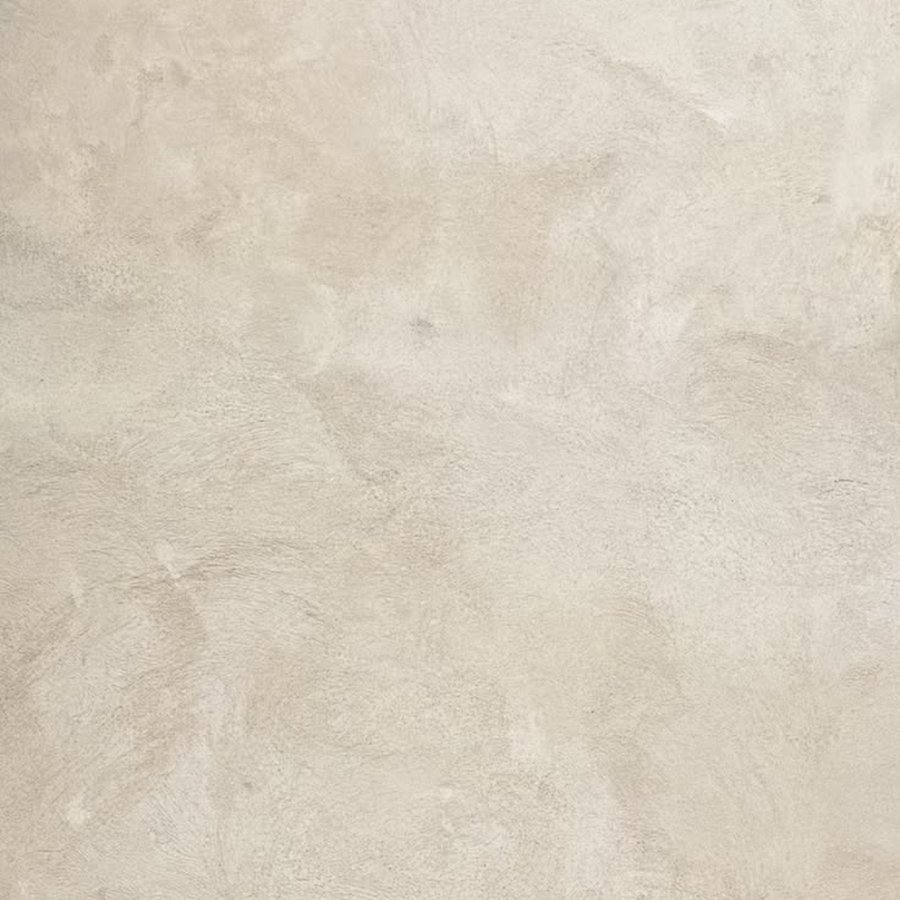
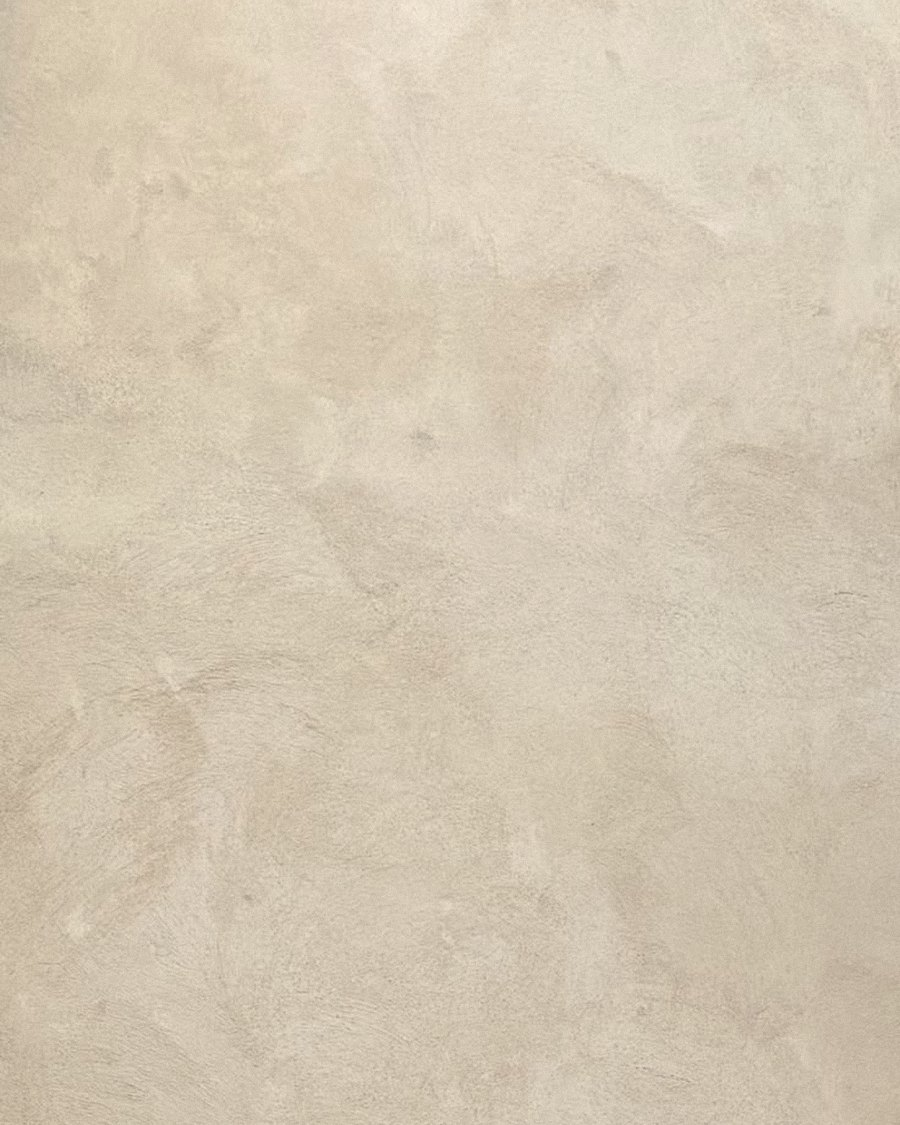
Catálogo de materiales y mejoras del generador
- Texturas nuevas a partir de fotos reales (Pexels), recortadas en 4:5
  y con un mismo revelado para que el conjunto tenga unidad; bloque de
  vidrio ya tiene imagen y el opus incertum se compone con fotos de piedra
- La pestaña Materiales de la Biblioteca se presenta como una hoja de
  catálogo: rejilla de muestras con nombre y código (CAT. 341-001...)
  en tipografía monoespaciada
- Generador: filtros por subcategoría en la biblioteca del editor y
  botón para descargar el moodboard como PNG (2000 px de ancho)

Claude-Session: https://claude.ai/code/session_01Xops2A717m5QMFGxGir6Zh

diff --git a/generador.js b/generador.js
@@ -16,6 +16,7 @@ let tablero = null;       // el moodboard en el que se está trabajando
 let seleccion = null;     // id del recuadro o texto seleccionado
 let enMano = null;        // pieza de la biblioteca elegida con un toque (móvil)
 let pestañaBiblioteca = "material";
+let filtroBiblioteca = "";     // subcategoría elegida en la biblioteca del editor
 
 
 // ---------------------------------------------------------------------
@@ -143,6 +144,7 @@ function vistaGenerador() {
           <button data-accion="azar">Rellenar al azar</button>
           <button data-accion="vaciar">Vaciar</button>
           <button data-accion="guardar">Guardar como plantilla</button>
+          <button data-accion="descargar" class="boton-oscuro">Descargar PNG</button>
         </div>
         <div class="barra barra-seleccion" id="barra-seleccion"></div>
         <div id="zona-lienzo"></div>
@@ -155,6 +157,7 @@ function vistaGenerador() {
           <button data-tipo="color">Añadir color</button>
           <button data-tipo="mueble">Añadir mobiliario</button>
         </nav>
+        <nav class="filtros filtros-editor" id="filtros-editor"></nav>
         <div class="piezas" id="piezas"></div>
       </aside>
     </section>`;
@@ -185,7 +188,15 @@ function pintarPlantillas() {
 
 function pintarBibliotecaEditor() {
   document.querySelectorAll(".pestañas-biblioteca button").forEach(b => b.classList.toggle("activa", b.dataset.tipo === pestañaBiblioteca));
-  const piezas = piezasBiblioteca(pestañaBiblioteca);
+  const todas = piezasBiblioteca(pestañaBiblioteca);
+  // Subcategorías, en el mismo orden que en la Biblioteca
+  const orden = { material: CATEGORIAS.materiales, mueble: CATEGORIAS.mobiliario, color: FAMILIAS_COLOR }[pestañaBiblioteca];
+  const presentes = orden.filter(cat => todas.some(p => p.categoria === cat));
+  if (!presentes.includes(filtroBiblioteca)) filtroBiblioteca = "";
+  document.getElementById("filtros-editor").innerHTML = presentes.length > 1 ? `
+    <button data-filtro="" class="${filtroBiblioteca ? "" : "activa"}">Todos</button>
+    ${presentes.map(cat => `<button data-filtro="${cat}" class="${cat === filtroBiblioteca ? "activa" : ""}">${cat}</button>`).join("")}` : "";
+  const piezas = filtroBiblioteca ? todas.filter(p => p.categoria === filtroBiblioteca) : todas;
   document.getElementById("piezas").innerHTML = piezas.length ? piezas.map(p => `
     <button class="pieza-editor ${enMano?.tipo === p.tipo && enMano?.id === p.id ? "en-mano" : ""}"
             draggable="true" data-tipo="${p.tipo}" data-id="${texto(p.id)}" title="${texto(p.nombre)}">
@@ -340,6 +351,13 @@ function activarEditor() {
     const b = e.target.closest("button");
     if (!b) return;
     pestañaBiblioteca = b.dataset.tipo;
+    filtroBiblioteca = "";
+    pintarBibliotecaEditor();
+  });
+  document.getElementById("filtros-editor").addEventListener("click", e => {
+    const b = e.target.closest("button");
+    if (!b) return;
+    filtroBiblioteca = b.dataset.filtro;
     pintarBibliotecaEditor();
   });
   const piezas = document.getElementById("piezas");
@@ -389,6 +407,7 @@ function activarEditor() {
     if (accion === "texto") return añadirTexto();
     if (accion === "azar") return rellenarAlAzar();
     if (accion === "guardar") return guardarComoPlantilla();
+    if (accion === "descargar") return descargarPNG();
     if (accion === "vaciar") {
       if (confirm("¿Quitar todas las texturas, colores y muebles del moodboard?")) { tablero.recuadros.forEach(x => x.contenido = null); pintarLienzo(); }
       return;
@@ -488,4 +507,118 @@ function teclaEditor(e) {
     pintarLienzo();
   }
   if (e.key === "Escape") { enMano = null; seleccion = null; pintarBibliotecaEditor(); pintarLienzo(); }
+}
+
+
+// ---------------------------------------------------------------------
+//  DESCARGAR EL MOODBOARD COMO IMAGEN (PNG)
+//  Se vuelve a dibujar el tablero en un <canvas> a alta resolución.
+// ---------------------------------------------------------------------
+
+const PIEDRA = [[8, 14], [30, 2], [62, 6], [88, 0], [100, 30], [94, 62], [100, 88], [70, 100], [38, 95], [12, 100], [0, 74], [4, 42]];
+
+function cargarImagen(src) {
+  return new Promise((ok, mal) => {
+    const img = new Image();
+    img.onload = () => ok(img);
+    img.onerror = mal;
+    img.src = src;
+  });
+}
+
+function trazarForma(ctx, forma, x, y, w, h) {
+  ctx.beginPath();
+  if (forma === "circulo") ctx.ellipse(x + w / 2, y + h / 2, w / 2, h / 2, 0, 0, Math.PI * 2);
+  else if (forma === "piedra") PIEDRA.forEach(([px, py], i) => ctx[i ? "lineTo" : "moveTo"](x + px / 100 * w, y + py / 100 * h));
+  else ctx.rect(x, y, w, h);
+  ctx.closePath();
+}
+
+// Dibuja la imagen cubriendo el hueco (como background-size: cover) o entera (contain)
+function dibujarImagen(ctx, img, x, y, w, h, modo) {
+  const escala = (modo === "contain" ? Math.min : Math.max)(w / img.width, h / img.height);
+  const iw = img.width * escala, ih = img.height * escala;
+  ctx.drawImage(img, x + (w - iw) / 2, y + (h - ih) / 2, iw, ih);
+}
+
+async function descargarPNG() {
+  const boton = document.querySelector('[data-accion="descargar"]');
+  boton.textContent = "Preparando…";
+  try {
+    const ANCHO = 2000;
+    const [pa, pb] = tablero.proporcion;
+    const W = ANCHO, H = Math.round(ANCHO * pb / pa);
+    const canvas = document.createElement("canvas");
+    canvas.width = W; canvas.height = H;
+    const ctx = canvas.getContext("2d");
+    ctx.fillStyle = "#ECE9E3";
+    ctx.fillRect(0, 0, W, H);
+
+    const recuadros = tablero.recuadros.filter(r => r.contenido).sort((a, b) => (a.z ?? 0) - (b.z ?? 0));
+    const imagenes = {};
+    await Promise.all(recuadros.map(async r => {
+      const pieza = buscarPieza(r.contenido);
+      if (pieza?.imagen) imagenes[r.id] = await cargarImagen(pieza.imagen);
+    }));
+
+    for (const r of recuadros) {
+      const pieza = buscarPieza(r.contenido);
+      if (!pieza) continue;
+      const x = r.x / 100 * W, y = r.y / 100 * H, w = r.w / 100 * W, h = altoRecuadro(r, tablero.proporcion) / 100 * H;
+      ctx.save();
+      if (pieza.tipo === "mueble") {
+        // los muebles van sin sombra y su fondo blanco se funde con el lienzo
+        ctx.globalCompositeOperation = "multiply";
+        trazarForma(ctx, r.forma, x, y, w, h); ctx.clip();
+        dibujarImagen(ctx, imagenes[r.id], x, y, w, h, "contain");
+      } else {
+        // sombra suave, como una muestra apoyada sobre la mesa
+        ctx.shadowColor = "rgba(40, 30, 20, .28)";
+        ctx.shadowBlur = W * .018; ctx.shadowOffsetY = W * .006;
+        trazarForma(ctx, r.forma, x, y, w, h);
+        ctx.fillStyle = pieza.hex || "#ddd"; ctx.fill();
+        ctx.shadowColor = "transparent";
+        if (pieza.imagen) { trazarForma(ctx, r.forma, x, y, w, h); ctx.clip(); dibujarImagen(ctx, imagenes[r.id], x, y, w, h, "cover"); }
+      }
+      ctx.restore();
+    }
+
+    // Textos
+    await document.fonts.ready;
+    const estilos = {
+      titulo: { fuente: `400 ${W * .07}px "Cormorant Garamond", serif`, alto: W * .067, mayus: true, espacio: 0 },
+      subtitulo: { fuente: `400 ${W * .017}px "Inter", sans-serif`, alto: W * .026, mayus: true, espacio: W * .003 },
+      nota: { fuente: `400 ${W * .021}px "Cormorant Garamond", serif`, alto: W * .028, mayus: false, espacio: 0 },
+    };
+    ctx.fillStyle = "#2A2622"; ctx.textBaseline = "top";
+    for (const t of tablero.textos) {
+      const e = estilos[t.estilo] || estilos.nota;
+      ctx.font = e.fuente;
+      if ("letterSpacing" in ctx) ctx.letterSpacing = e.espacio + "px";
+      const palabras = (e.mayus ? t.texto.toUpperCase() : t.texto).split(/\s+/);
+      const maximo = t.w / 100 * W;
+      let linea = "", y = t.y / 100 * H;
+      for (const palabra of palabras) {
+        const prueba = linea ? linea + " " + palabra : palabra;
+        if (ctx.measureText(prueba).width > maximo && linea) { ctx.fillText(linea, t.x / 100 * W, y); linea = palabra; y += e.alto; }
+        else linea = prueba;
+      }
+      ctx.fillText(linea, t.x / 100 * W, y);
+    }
+
+    const blob = await new Promise(ok => canvas.toBlob(ok, "image/png"));
+    const enlace = document.createElement("a");
+    enlace.href = URL.createObjectURL(blob);
+    enlace.download = `moodboard-341-studio-${new Date().toISOString().slice(0, 10)}.png`;
+    enlace.click();
+    setTimeout(() => URL.revokeObjectURL(enlace.href), 2000);
+  } catch (error) {
+    // Al abrir index.html con doble clic (file://), el navegador no deja exportar
+    // un dibujo hecho con imágenes locales. Publicada en internet funciona.
+    alert("No se ha podido crear la imagen. Si has abierto la web con doble clic en index.html, " +
+          "el navegador lo bloquea por seguridad: funciona con la web publicada (GitHub Pages).");
+    console.error(error);
+  } finally {
+    boton.textContent = "Descargar PNG";
+  }
 }

diff --git a/style.css b/style.css
@@ -12,6 +12,7 @@
 
   --serif: "Cormorant Garamond", Georgia, serif;
   --sans: "Inter", "Helvetica Neue", Arial, sans-serif;
+  --mono: "IBM Plex Mono", ui-monospace, Menlo, monospace;   /* fichas de catálogo */
   --titulo: "Manrope", "Helvetica Neue", Arial, sans-serif;   /* nombre del estudio */
 
   --margen: clamp(16px, 4vw, 56px);
@@ -331,6 +332,20 @@ body.portada-visible .cabecera { transform: translateY(-100%); opacity: 0; point
 .pestañas a { font-family: var(--serif); font-size: 26px; text-decoration: none; color: var(--texto-suave); }
 .pestañas a.activa { color: var(--texto); text-decoration: underline; text-underline-offset: 6px; text-decoration-thickness: 1px; }
 
+/* Catálogo de materiales: hoja con rejilla de muestras y fichas en monoespaciada */
+.catalogo { margin: 8px 0 96px; padding: clamp(24px, 5vw, 64px); background: #F1EDE6; }
+.catalogo-cabecera { display: flex; justify-content: space-between; align-items: flex-end; gap: 24px; padding-bottom: 18px; border-bottom: 1px solid var(--texto); margin-bottom: clamp(28px, 4vw, 48px); }
+.catalogo-cabecera h2 { font-family: var(--mono); font-size: clamp(20px, 2.4vw, 28px); letter-spacing: .14em; text-transform: uppercase; }
+.catalogo-cabecera p { margin: 0; font-family: var(--mono); font-size: 10px; letter-spacing: .08em; text-transform: uppercase; text-align: right; line-height: 1.6; }
+.catalogo-rejilla { display: grid; grid-template-columns: repeat(4, 1fr); gap: clamp(28px, 4vw, 52px) clamp(20px, 3.5vw, 48px); }
+.catalogo-item { margin: 0; }
+.catalogo-imagen { aspect-ratio: 4 / 5; overflow: hidden; background: var(--fondo-suave); }
+.catalogo-imagen img { width: 100%; height: 100%; object-fit: cover; transition: transform 1s ease; }
+.catalogo-item:hover .catalogo-imagen img { transform: scale(1.04); }
+.catalogo-item figcaption { display: flex; flex-direction: column; gap: 6px; padding-top: 14px; font-family: var(--mono); font-size: 10.5px; letter-spacing: .06em; text-transform: uppercase; }
+.catalogo-codigo { color: var(--texto-suave); }
+.catalogo-proyectos { font-family: var(--sans); text-transform: none; letter-spacing: 0; font-size: 11px; color: var(--texto-suave); }
+
 /* Subcategorías de la biblioteca */
 .filtros { display: flex; flex-wrap: wrap; gap: 8px 22px; margin-top: 28px; }
 .filtros a {
@@ -453,6 +468,11 @@ code { font-family: ui-monospace, Menlo, monospace; font-size: .85em; background
 .pestañas-biblioteca { display: flex; flex-wrap: wrap; gap: 4px 16px; margin-bottom: 16px; }
 .pestañas-biblioteca button { font: inherit; font-family: var(--serif); font-size: 19px; background: none; border: 0; padding: 0 0 2px; color: var(--texto-suave); cursor: pointer; border-bottom: 1px solid transparent; }
 .pestañas-biblioteca button.activa { color: var(--texto); border-color: var(--texto); }
+.filtros-editor { margin: 0 0 14px; gap: 6px 14px; }
+.filtros-editor button { font: inherit; font-size: 10px; letter-spacing: .1em; text-transform: uppercase; background: none; border: 0; border-bottom: 1px solid transparent; padding: 0 0 2px; color: var(--texto-suave); cursor: pointer; }
+.filtros-editor button:hover, .filtros-editor button.activa { color: var(--texto); border-color: var(--texto); }
+.barra button.boton-oscuro { background: var(--texto); color: var(--fondo); border-color: var(--texto); }
+.barra button.boton-oscuro:hover { background: transparent; color: var(--texto); }
 .piezas { display: grid; grid-template-columns: repeat(3, 1fr); gap: 12px 10px; max-height: 70vh; overflow-y: auto; padding: 4px; }
 .pieza-editor { display: flex; flex-direction: column; gap: 6px; background: none; border: 0; padding: 0; font: inherit; text-align: left; cursor: grab; }
 .pieza-muestra { display: block; aspect-ratio: 1; background: var(--fondo-suave) center / cover no-repeat; box-shadow: 0 1px 3px rgba(0, 0, 0, .12); }
@@ -491,6 +511,7 @@ code { font-family: ui-monospace, Menlo, monospace; font-size: .85em; background
   .moodboard { grid-template-columns: 1fr; gap: 40px; }
   .ficha div { grid-template-columns: 100px 1fr; }
     .lista-piezas { grid-template-columns: 1fr; }
+  .catalogo-rejilla { grid-template-columns: repeat(2, 1fr); }
   .editor { grid-template-columns: 1fr; }
   .editor-biblioteca { position: static; }
   .piezas { grid-template-columns: repeat(4, 1fr); max-height: 50vh; }

diff --git a/script.js b/script.js
@@ -433,6 +433,36 @@ function listaPiezas(p) {
 //  VISTA: BIBLIOTECA
 // ---------------------------------------------------------------------
 
+// Materiales presentados como una hoja de catálogo: cada uno con su
+// número fijo (CAT. 341-001...), según su orden en data/biblioteca.js
+function codigoCatalogo(id) {
+  const n = BIBLIOTECA.materiales.findIndex(m => m.id === id) + 1;
+  return `CAT. 341-${String(n).padStart(3, "0")}`;
+}
+
+function catalogoMateriales(items, total) {
+  return `
+    <section class="catalogo">
+      <header class="catalogo-cabecera">
+        <h2>Catálogo</h2>
+        <p>Biblioteca de materiales<br>Volumen I / ${String(total).padStart(3, "0")}</p>
+      </header>
+      <div class="catalogo-rejilla">
+        ${items.map(m => `
+          <figure class="catalogo-item">
+            <div class="catalogo-imagen">
+              ${m.imagen ? `<img src="${texto(m.imagen)}" alt="${texto(m.nombre)}" loading="lazy">` : `<span class="sin-imagen">${texto(m.nombre)}</span>`}
+            </div>
+            <figcaption>
+              <span class="catalogo-nombre">${texto(m.nombre)}</span>
+              <span class="catalogo-codigo">${codigoCatalogo(m.id)} · ${texto(m.categoria || "")}</span>
+              <span class="catalogo-proyectos">${enlacesProyectos(m.proyectos)}</span>
+            </figcaption>
+          </figure>`).join("")}
+      </div>
+    </section>`;
+}
+
 // #/biblioteca/<tipo>/<subcategoría>/<tipo de iluminación>
 // p. ej. #/biblioteca/materiales/maderas   o   #/biblioteca/mobiliario/iluminacion/suspension
 function vistaBiblioteca(tipo, filtro, subfiltro) {
@@ -478,6 +508,8 @@ function vistaBiblioteca(tipo, filtro, subfiltro) {
           <p class="aparece">${enlacesProyectos(c.proyectos)}</p>
         </div>`).join("")}
     </div>`;
+  } else if (tipo === "materiales") {
+    contenido = catalogoMateriales(items, todos.length);
   } else {
     contenido = `<div class="rejilla-piezas">${items.map(item => `
       <div class="item-biblioteca">

diff --git a/data/biblioteca.js b/data/biblioteca.js
@@ -28,7 +28,7 @@ window.BIBLIOTECA = {
     { id: "hormigon", nombre: "Hormigón", categoria: "Hormigón y cemento", acabado: "Sofá integrado", imagen: "img/materiales/hormigon.jpg" },
     { id: "lino-natural", nombre: "Lino natural", categoria: "Textiles", acabado: "Cortinas y tapicerías", imagen: "img/materiales/lino-natural.jpg" },
     { id: "aluminio-encerado", nombre: "Aluminio encerado", categoria: "Metales", acabado: "Encerado", imagen: "img/materiales/aluminio-encerado.jpg" },
-    { id: "bloque-vidrio", nombre: "Bloque de vidrio translúcido", categoria: "Vidrio", acabado: "Pared del baño", imagen: "" },
+    { id: "bloque-vidrio", nombre: "Bloque de vidrio translúcido", categoria: "Vidrio", acabado: "Pared del baño", imagen: "img/materiales/bloque-vidrio.jpg" },
     { id: "roble-tenido-oscuro", nombre: "Roble teñido oscuro", categoria: "Maderas", acabado: "Muebles empotrados y mesa de comedor", imagen: "img/materiales/roble-tenido-oscuro.jpg" },
     { id: "ceramica-terracota-esmaltada", nombre: "Cerámica de terracota esmaltada", categoria: "Cerámica", acabado: "Revestimiento de chimenea · California", imagen: "img/materiales/ceramica-terracota-esmaltada.jpg" },
     { id: "ceramica-opus-incertum", nombre: "Cerámica en opus incertum", categoria: "Cerámica", acabado: "Suelo en tonos de pizarra", imagen: "img/materiales/ceramica-opus-incertum.jpg" },

diff --git a/index.html b/index.html
@@ -8,7 +8,7 @@
   <!-- Tipografías -->
   <link rel="preconnect" href="https://fonts.googleapis.com">
   <link rel="preconnect" href="https://fonts.gstatic.com" crossorigin>
-  <link href="https://fonts.googleapis.com/css2?family=Cormorant+Garamond:ital,wght@0,400;0,500;1,400&family=Inter:wght@300;400;500&family=Manrope:wght@500&display=swap" rel="stylesheet">
+  <link href="https://fonts.googleapis.com/css2?family=Cormorant+Garamond:ital,wght@0,400;0,500;1,400&family=Inter:wght@300;400;500&family=Manrope:wght@500&family=IBM+Plex+Mono:wght@400&display=swap" rel="stylesheet">
 
   <!-- Diseño -->
   <link rel="stylesheet" href="style.css">
